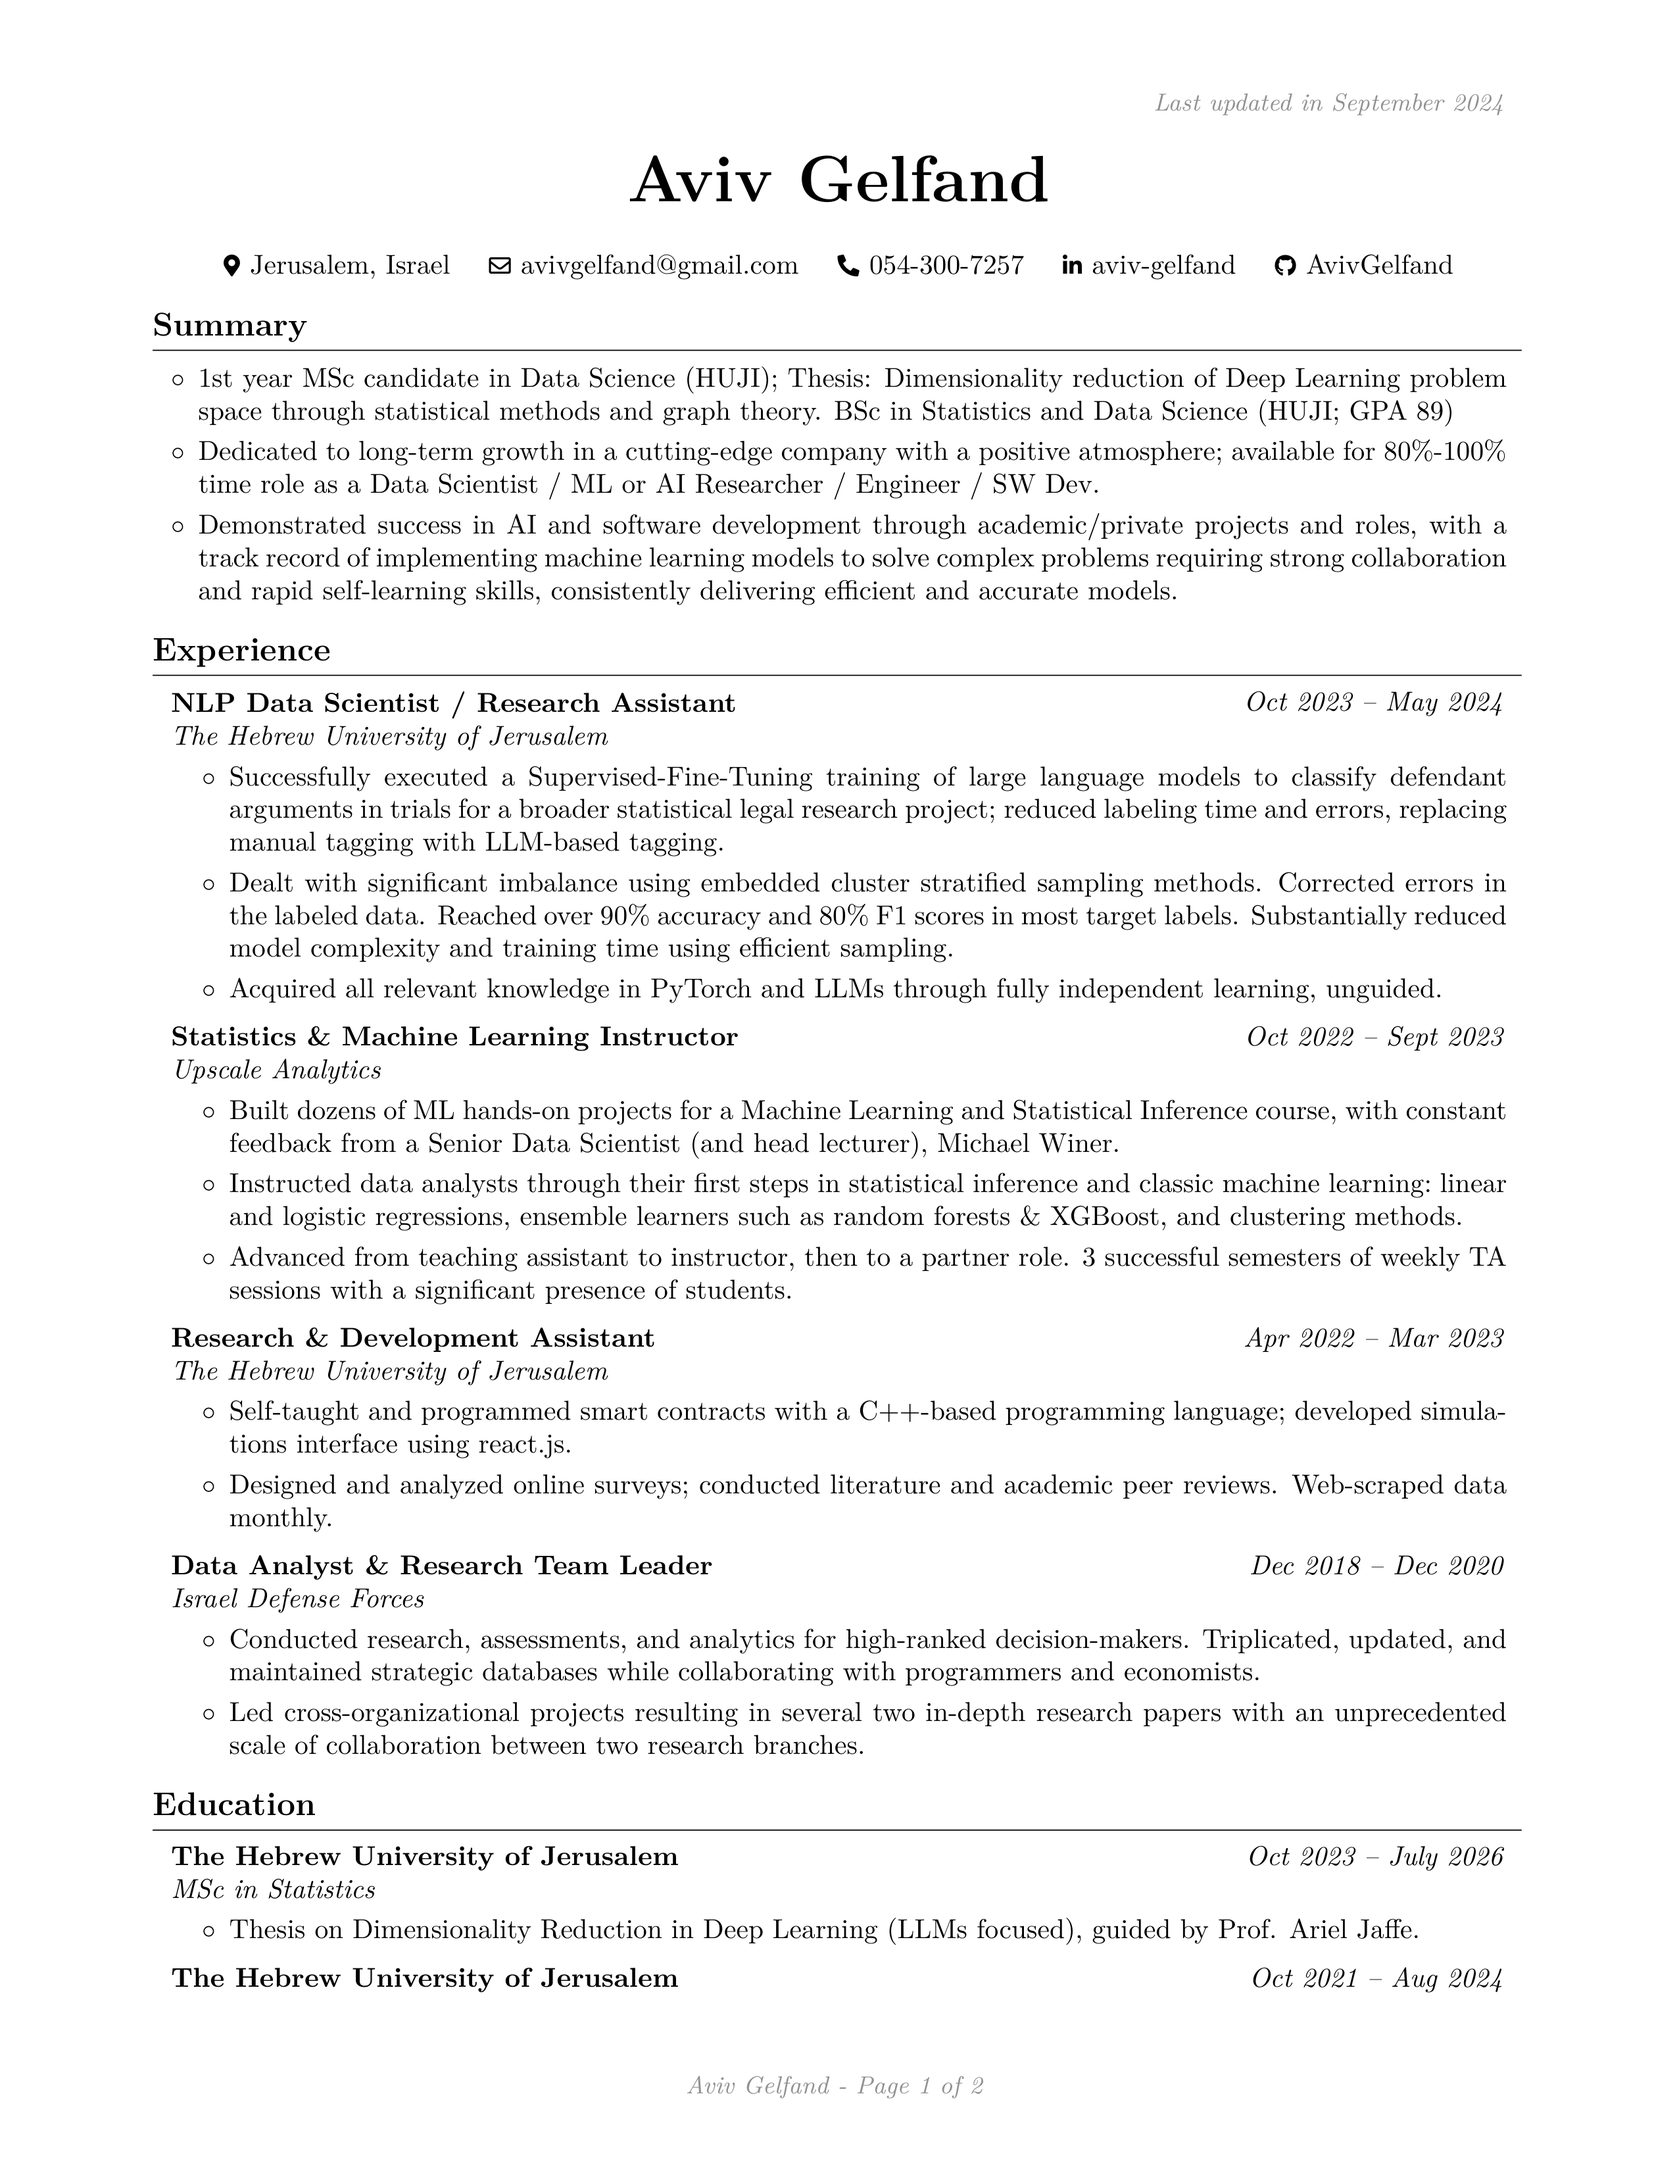
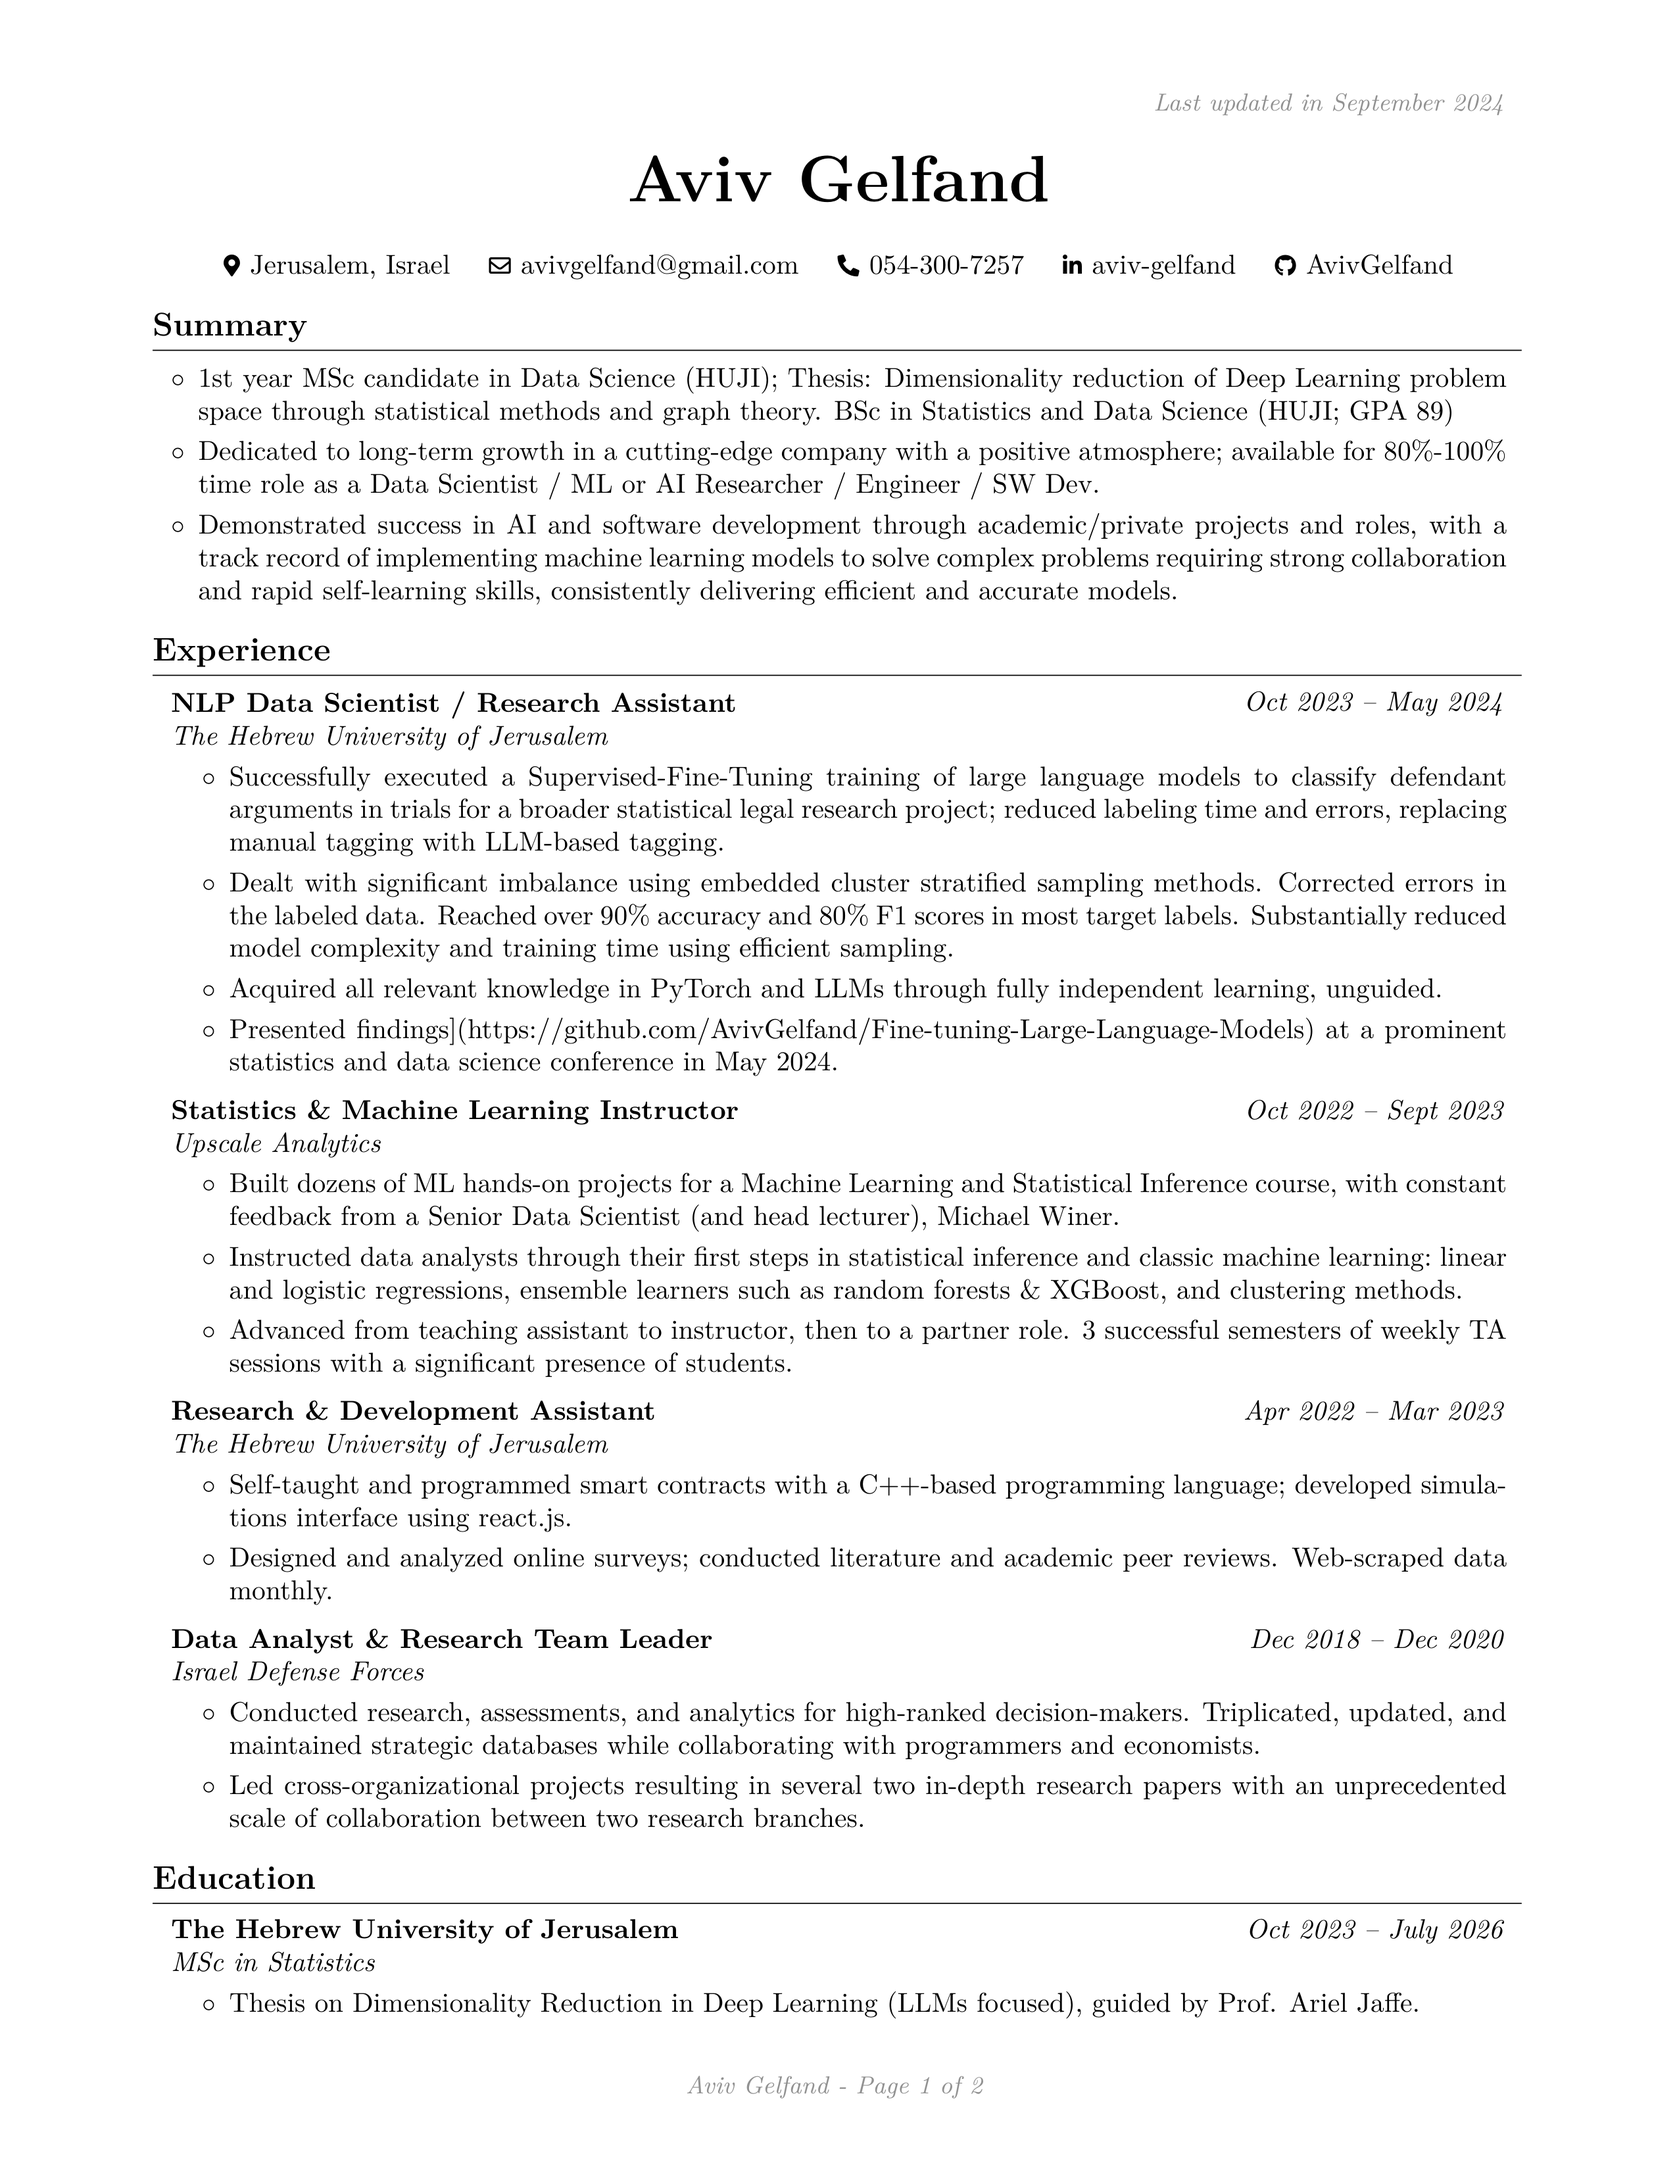
Render the latest CV

diff --git a/Aviv_Gelfand_CV.html b/Aviv_Gelfand_CV.html
@@ -53,6 +53,7 @@
         <li>Successfully executed a Supervised-Fine-Tuning training of large language models to classify defendant arguments in trials for a broader statistical legal research project; reduced labeling time and errors, replacing manual tagging with LLM-based tagging.</li>
         <li>Dealt with significant imbalance using embedded cluster stratified sampling methods. Corrected errors in the labeled data. Reached over 90% accuracy and 80% F1 scores in most target labels. Substantially reduced model complexity and training time using efficient sampling.</li>
         <li>Acquired all relevant knowledge in PyTorch and LLMs through fully independent learning, unguided.</li>
+        <li>Presented findings](https://github.com/AvivGelfand/Fine-tuning-Large-Language-Models) at a prominent statistics and data science conference in May 2024.</li>
         </ul>
         <h2>Upscale Analytics, Statistics &amp; Machine Learning Instructor</h2>
         <ul>

diff --git a/Aviv_Gelfand_CV.tex b/Aviv_Gelfand_CV.tex
@@ -218,6 +218,7 @@
                 \item Successfully executed a Supervised-Fine-Tuning training of large language models to classify defendant arguments in trials for a broader statistical legal research project; reduced labeling time and errors, replacing manual tagging with LLM-based tagging.
                 \item Dealt with significant imbalance using embedded cluster stratified sampling methods. Corrected errors in the labeled data. Reached over 90\% accuracy and 80\% F1 scores in most target labels. Substantially reduced model complexity and training time using efficient sampling.
                 \item Acquired all relevant knowledge in PyTorch and LLMs through fully independent learning, unguided.
+                \item Presented findings](https://github.com/AvivGelfand/Fine-tuning-Large-Language-Models) at a prominent statistics and data science conference in May 2024.
             \end{highlights}
         \end{onecolentry}
 

diff --git a/README.md b/README.md
@@ -22,6 +22,7 @@
 - Successfully executed a Supervised-Fine-Tuning training of large language models to classify defendant arguments in trials for a broader statistical legal research project; reduced labeling time and errors, replacing manual tagging with LLM-based tagging.
 - Dealt with significant imbalance using embedded cluster stratified sampling methods. Corrected errors in the labeled data. Reached over 90% accuracy and 80% F1 scores in most target labels. Substantially reduced model complexity and training time using efficient sampling.
 - Acquired all relevant knowledge in PyTorch and LLMs through fully independent learning, unguided.
+- Presented findings](https://github.com/AvivGelfand/Fine-tuning-Large-Language-Models) at a prominent statistics and data science conference in May 2024.
 
 ## Upscale Analytics, Statistics & Machine Learning Instructor
 
